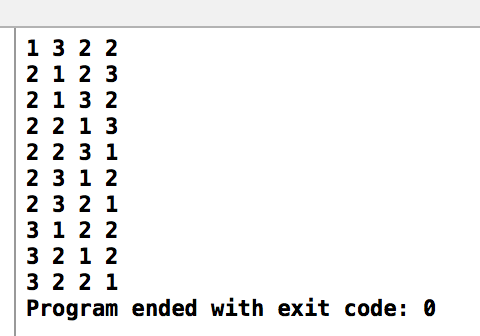
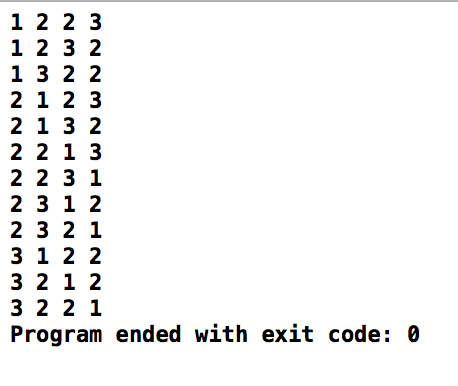
修改

Changed region(s): [[0.0, 0.0, 1.0, 1.0]]

diff --git a/_posts/2017-01-09-C49.md b/_posts/2017-01-09-C49.md
@@ -329,7 +329,7 @@ void premutation(int *a, int size) {
 }
 
 int main(int argc, const char * argv[]) {
-    int a[] = {1,3,2,2};
+    int a[] = {1,2,2,3};	//注意这里序列顺序由小到大（很重要）
     int size = sizeof(a)/sizeof(int);
     printString(a, size);
     premutation(a, size);
